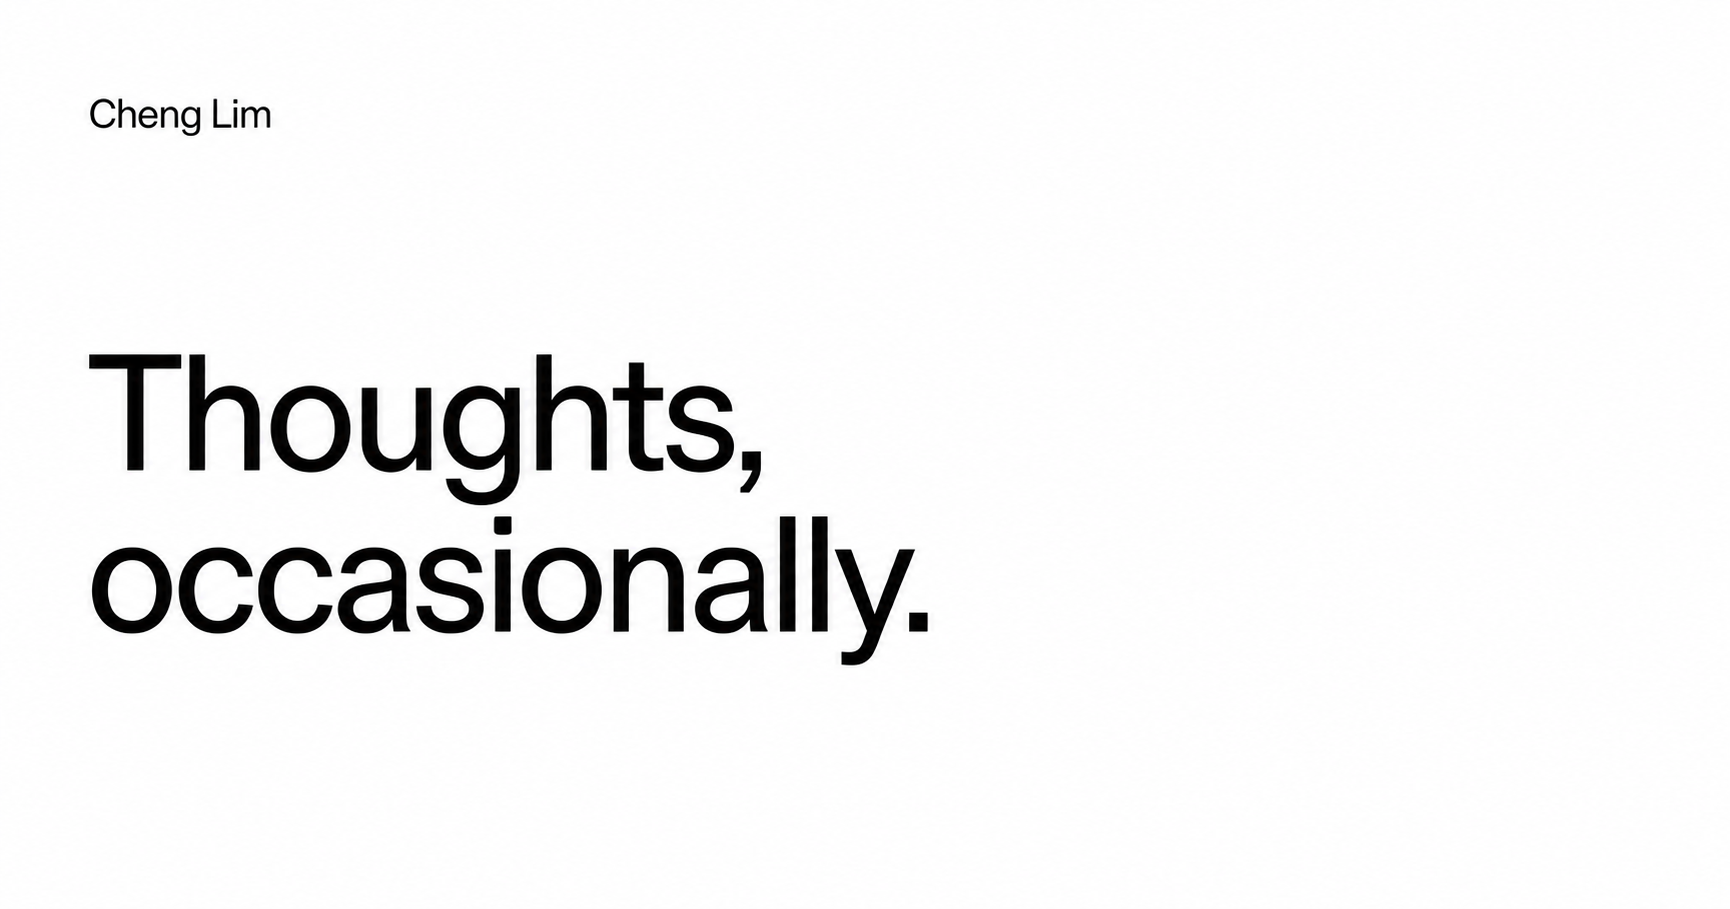
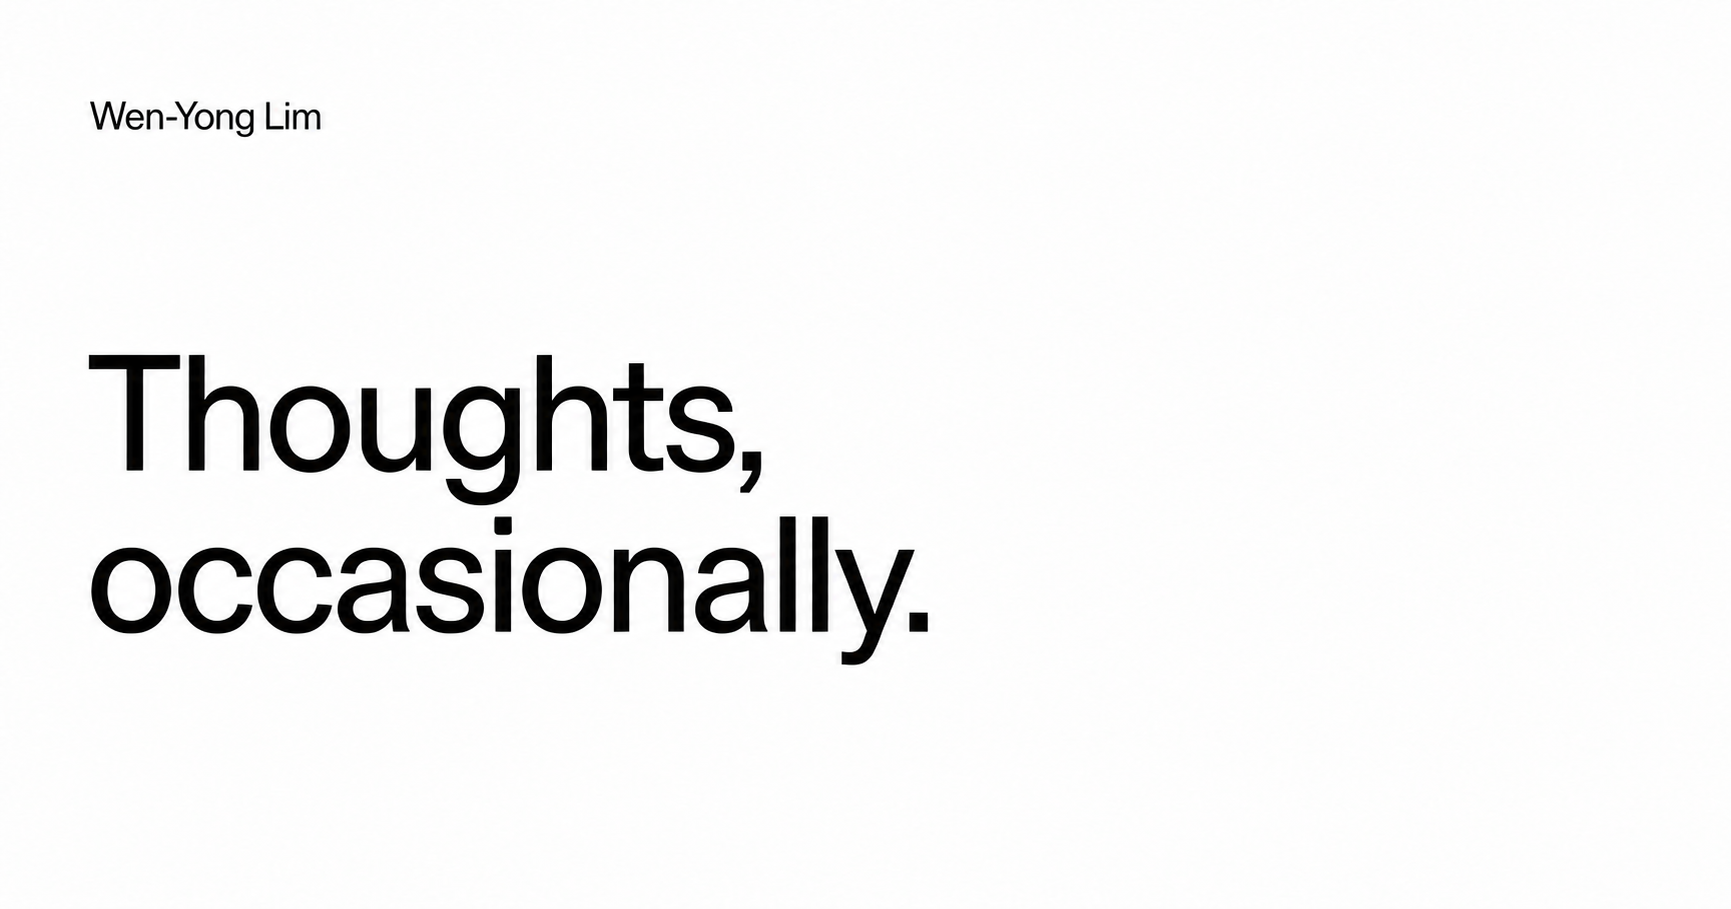
Use Wen-Yong Lim across personal site

diff --git a/app/layout.tsx b/app/layout.tsx
@@ -13,18 +13,18 @@ const geistMono = Geist_Mono({
 });
 
 export const metadata: Metadata = {
-  title: "Cheng Lim — Notes & CV",
-  description: "Writing, ideas and work by Cheng Lim.",
+  title: "Wen-Yong Lim — Notes & CV",
+  description: "Writing, ideas and work by Wen-Yong Lim.",
   metadataBase: new URL("https://cheng-lim-notes.peng-cheng.chatgpt.site"),
   openGraph: {
-    title: "Cheng Lim — Notes & CV",
-    description: "Writing, ideas and work by Cheng Lim.",
+    title: "Wen-Yong Lim — Notes & CV",
+    description: "Writing, ideas and work by Wen-Yong Lim.",
     images: ["/og.png"],
   },
   twitter: {
     card: "summary_large_image",
-    title: "Cheng Lim — Notes & CV",
-    description: "Writing, ideas and work by Cheng Lim.",
+    title: "Wen-Yong Lim — Notes & CV",
+    description: "Writing, ideas and work by Wen-Yong Lim.",
     images: ["/og.png"],
   },
   icons: {

diff --git a/app/page.tsx b/app/page.tsx
@@ -2,7 +2,7 @@ export default function Home() {
   return (
     <main>
       <header>
-        <a className="name" href="#top">Cheng Lim</a>
+        <a className="name" href="#top">Wen-Yong Lim</a>
         <nav aria-label="Primary navigation">
           <a href="#notes">Notes</a>
           <a href="#cv">CV</a>

diff --git a/README.md b/README.md
@@ -1,4 +1,4 @@
-# Cheng Lim — personal website
+# Wen-Yong Lim — personal website
 
 A simple home for writing and a CV.
 
